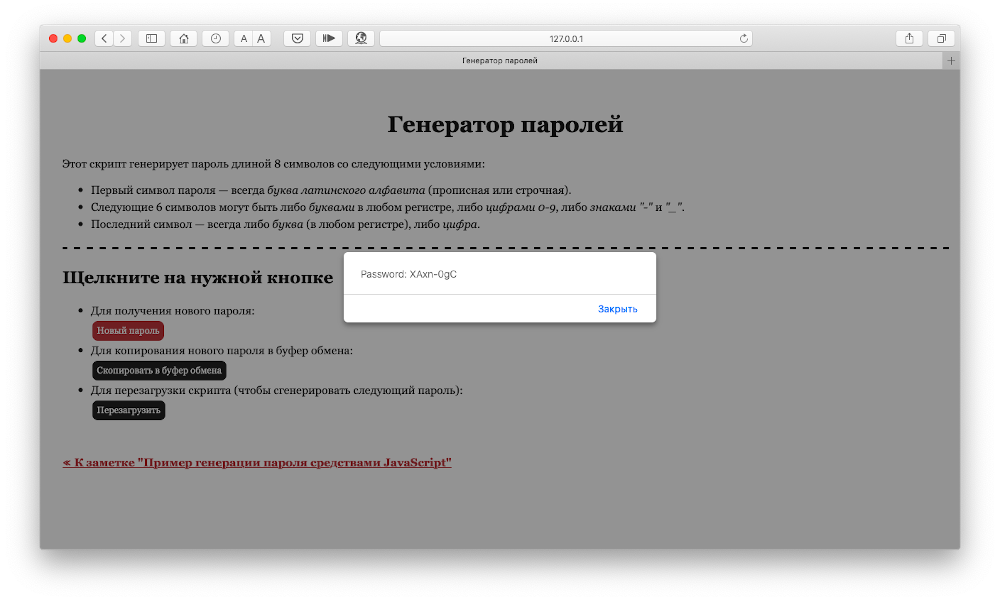
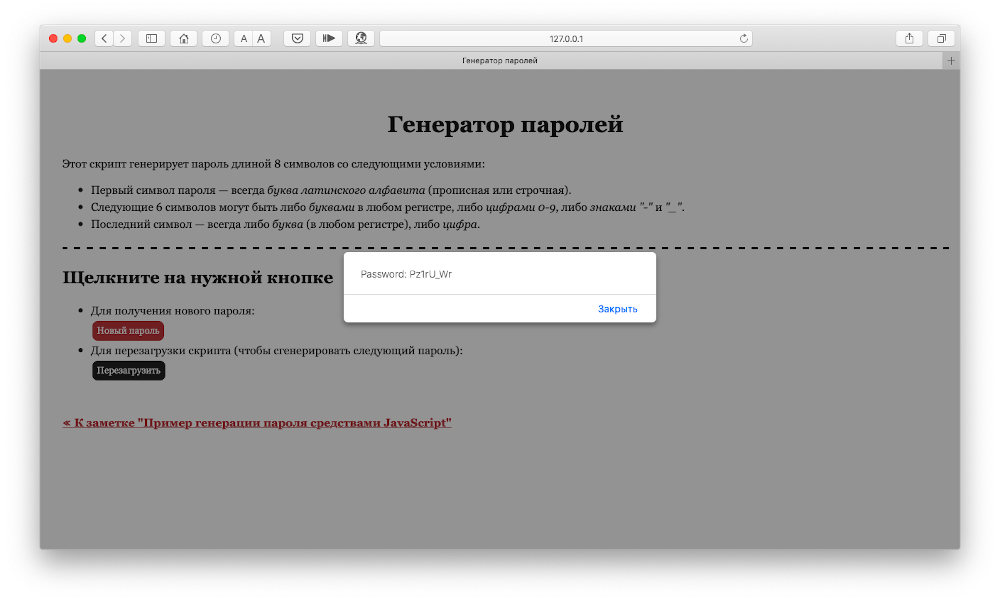
Some changes

Changed region(s): [[0.062, 0.57, 0.465, 0.72], [0.062, 0.75, 0.465, 0.78], [0.403, 0.45, 0.465, 0.48]]

diff --git a/pwd/pwd.html b/pwd/pwd.html
@@ -68,7 +68,7 @@
                     password +=LETTERS[Math.floor(Math.random() * LETTERS.length)]; return password;<br>
                     }</code>
             </p>
-            <p>На самом деле мы схитрили. Если перейти к странице генерации пароля, то новый пароль будет получен не при нажатии на одноименную кнопку <kbd>&quot;Новый пароль&quot;</kbd>, а при загрузке страницы; по этой кнопке он будет выведен пользователю. Это сделано для того, чтобы сгенерированный пароль не сбрасывался, пока страница не обновлена. За счет такого решения его можно при необходимости вызвать снова или скопировать в буфер обмена (имеется и соответствующая кнопка). Лишь при нажатии кнопки <kbd>&quot;Перезагрузить&quot;</kbd> происходит перезагрузка страницы и генерация новой псевдослучайной последовательности. Конечно, у подобного подхода есть свои минусы, но для демонстрации он нам вполне подходит.</p>
+            <p>На самом деле мы схитрили. Если перейти к странице генерации пароля, то новый пароль будет получен не при нажатии на одноименную кнопку <kbd>&quot;Новый пароль&quot;</kbd>, а при загрузке страницы; по этой кнопке он будет выведен пользователю. Это сделано для того, чтобы сгенерированный пароль не сбрасывался, пока страница не обновлена. За счет такого решения его можно при необходимости вызвать снова и скопировать в буфер обмена. Лишь при нажатии кнопки <kbd>&quot;Перезагрузить&quot;</kbd> происходит перезагрузка страницы и генерация новой псевдослучайной последовательности. Конечно, у подобного подхода есть свои минусы, но для демонстрации он нам вполне подходит.</p>
         </section>
         <section>
             <h2 id="part03">Надёжность генерируемых паролей</h2>

diff --git a/pwd/js/generator.js b/pwd/js/generator.js
@@ -4,18 +4,17 @@ const SIGNS = "-_";
 const LETTERS = ABC + NUMBERS;
 const SYMBOLS = ABC + NUMBERS + SIGNS;
 let password = "";
-function getPassword (ABC, LETTERS, SYMBOLS) {
-password += ABC[Math.floor(Math.random() * ABC.length)];
-for (let i = 0; i < 6; ++i) {
-  password += SYMBOLS[Math.floor(Math.random() * SYMBOLS.length)];
-}
-password += LETTERS[Math.floor(Math.random() * LETTERS.length)];
-return password;
+
+function getPassword(ABC, LETTERS, SYMBOLS) {
+    password += ABC[Math.floor(Math.random() * ABC.length)];
+    for (let i = 0; i < 6; ++i) {
+        password += SYMBOLS[Math.floor(Math.random() * SYMBOLS.length)];
+    }
+    password += LETTERS[Math.floor(Math.random() * LETTERS.length)];
+    return password;
 }
 getPassword(ABC, LETTERS, SYMBOLS);
+
 function alertPassword() {
     alert("Password: " + password);
-}
-function copyToClopboard() {
-  navigator.clipboard.writeText(password);
 }

diff --git a/pwd/js/generator.html b/pwd/js/generator.html
@@ -23,8 +23,6 @@
     <ul>
         <li>Для получения нового пароля:<br>
             <input type="button" name="password" class="button" value="Новый пароль" onclick="alertPassword()"></li>
-        <li>Для копирования нового пароля в буфер обмена:<br>
-            <input type="button" name="clipboard" class="button" value="Скопировать в буфер обмена" onclick="copyToClopboard ()"></li>
         <li>Для перезагрузки скрипта (чтобы сгенерировать следующий пароль):<br>
             <input type="button" name="reset" class="button" value="Перезагрузить" onclick="location.reload()"></li>
     </ul>
